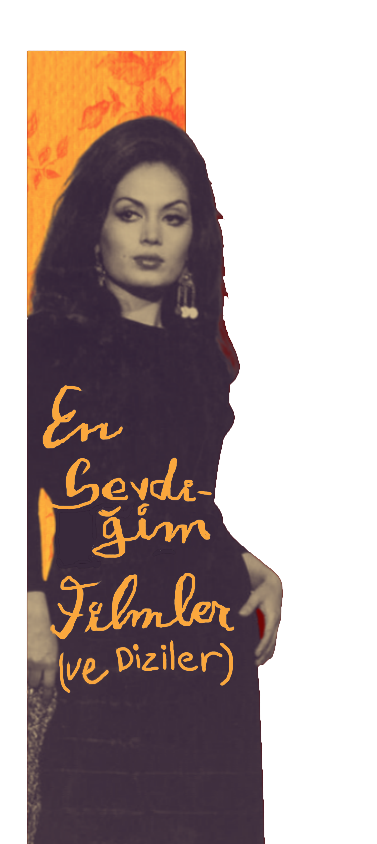
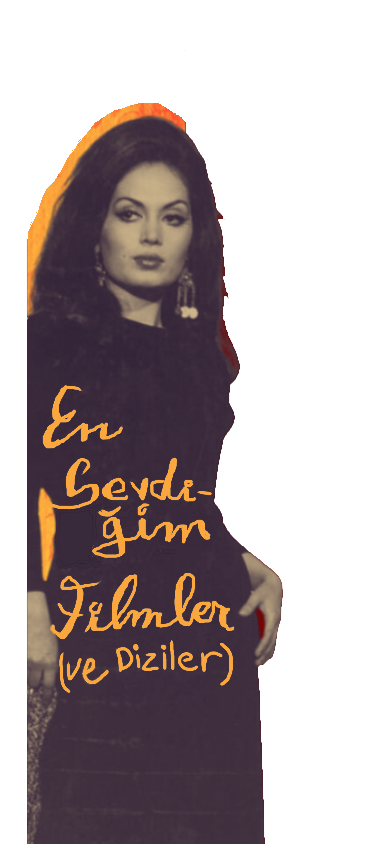
base done

Changed region(s): [[0.0584, 0.0616, 0.496, 0.2773]]

diff --git a/body.css b/body.css
@@ -5,97 +5,80 @@
 |  '--'.'| .-. |(  .-' ' ,-.  ||  .--',--.| .-. | 
 |  |\  \ ' '-' '.-'  `)\ '-'  ||  |   |  |' '-' ' 
 `--' '--' `---' `----'  `--`--'`--'   `--' `---'                                          
-hehehehheheheheehheheheeheheheheheheheheheheheheh*/
+hehehehheheheheehheheheeheheheheheheheheheheheheh
+*/
 
-
-/*---------------HEADER------------------ */
+/*---------------HEADER------------------*/
 .header {
     position: relative;
-    margin-top: 0px;
-    margin-bottom: 0px;
-    padding: 0px;
-    border: none;
-    position-anchor: relative;
+    margin: 0;
+    padding: 0;
 }
+
 .header-image {
     display: block;
-    height: auto;
     position: absolute;
-    padding: 0%;
-    margin: 0%;
     top: 0;
     right: 0;
-    max-width: 40em; /* or whatever size you want */
-    height: auto;
-    opacity: 75%;
-    z-index: -2;
-}
-.titleimage {
+    max-width: 16em;
     width: 100%;
     height: auto;
-    position: relative;
+    opacity: 0.75; /* Use decimal opacity value */
+    z-index: -2;
     margin: 0;
-
+    padding: 0;
 }
 
-/*---------------BODY------------------ */
+.titleimage {
+    width: 98%;
+    height: auto;
+    position: relative;
+    display: block;
+    margin: 0;
+    padding: 0;
+    transform: translateX(40px);
+}
+
+/*---------------BODY------------------*/
+html, body {
+    height: 100%;
+    margin: 0;
+    padding: 0;
+    border: none;
+    max-width: 100%;
+}
+
 body {
-  background-color: #720505; 
-  background-image: url('images01/backflower.png');
-  position: relative;
-  margin: 0;
-  padding: 0;
-  bottom: 0;
-  background-size: cover;
-  background-position: topcenter;
-  background-repeat: no-repeat;
+    background-color: #720505; 
+    background-image: url('images01/backflower.png');
+    background-size: cover;
+    background-position: top center;
+    background-repeat: no-repeat;
+    overflow-x: hidden;
+    background-attachment: fixed;
 }
+
 .section1 {
     columns: 2;
     padding: 20px;
     margin: 20px;
     border-radius: 8px;
     text-align: justify;
-    text-justify: inter-word;
-}
-p {
-    font-size: 20px;
-    line-height: 1.5;
-    margin: 20px;
-    text-wrap-mode: normal;
-}
-.bottom-section {
-    position: relative;
-    display: inline-block;
-    padding: 0px;
-    margin: 0px;
-    border-radius: 0px;
-}
-footer {
-    position: relative;
-    display: inline-block;
-    padding: 0px;
-    margin: 0px;
 }
 
-/*------ SPECIFIED BUTTONS AND STUFF------*/
-
-
-.turkanbutton {
-
-  position: absolute;
-  left: 0%;
-  width: 150px;
-  height: auto;
-  margin: 0;
-  padding: 0;
-  border: none;
-  background: none;
-  transition: transform 0.3s ease;
-  will-change: transform;
-  perspective: 1000px;
+/*---------BUTTON------------------*/
+.turkanbutton,.turkanbutton-link {
+    position: absolute;
+    left: 0;
+    bottom: 0%;
+    width: 131px;
+    height: auto;
+    margin: 0;
+    padding: 0;
+    border: none;
+    transform: translateX(+12px);
 }
-  .turkanbutton:hover {
-  filter: brightness(1.1);
-  cursor: pointer;
-  }
+.turkanbutton:hover {
+    filter: brightness(1.1);
+    cursor: pointer;
+}

diff --git a/index.html b/index.html
@@ -1,33 +1,23 @@
 <!DOCTYPE html>
+<html lang="en">
 <head>
     <meta charset="UTF-8">
-    <link rel="icon" type="ico" href="images/dove.ico">
+    <title>rüzgar gibiyiz</title>
+    <link rel="icon" type="image/x-icon" href="images/dove.ico">
     <link href="https://fonts.googleapis.com/css2?family=Meie+Script&display=swap" rel="stylesheet">
     <link href="body.css" rel="stylesheet">
-    <link href="../universal.css" rel="stylesheet">
-    <title>rüzgar gibiyiz</title>
 </head>
-    <body> 
-     <header>
-         <div element="title" class="titleimage">
-            <img src="images01/title.png" alt="title" class="titleimage">
-        </div>
-            <div class="header-image">
-                <img src="images01/2.png" alt="header image">
-            </div>
-        </header>
+<body> 
+        <img src="images01/title.png" alt="title" class="titleimage">
+        <img src="images01/2.png" alt="header image" class="header-image">
+
     <section class="section1">
         <p>hello world</p>
-        </section>
-            <div class="turkanbuttoncontainer">
-    <button class="turkanbutton"> 
-      <a href="filmler.html">
-        <img src="images01/turkanbutton.png" alt="turkanbutton" class="turkanbutton">
-      </a>
-    </button>
-        </div>
-    <footer>
-        </footer>
+    </section>
+
+        <a href="filmler.html" class="turkanbutton-link">
+            <img src="images01/turkanbutton.png" alt="turkan button" class="turkanbutton">
+        </a>
 
 </body>
-</html>    
+</html>
